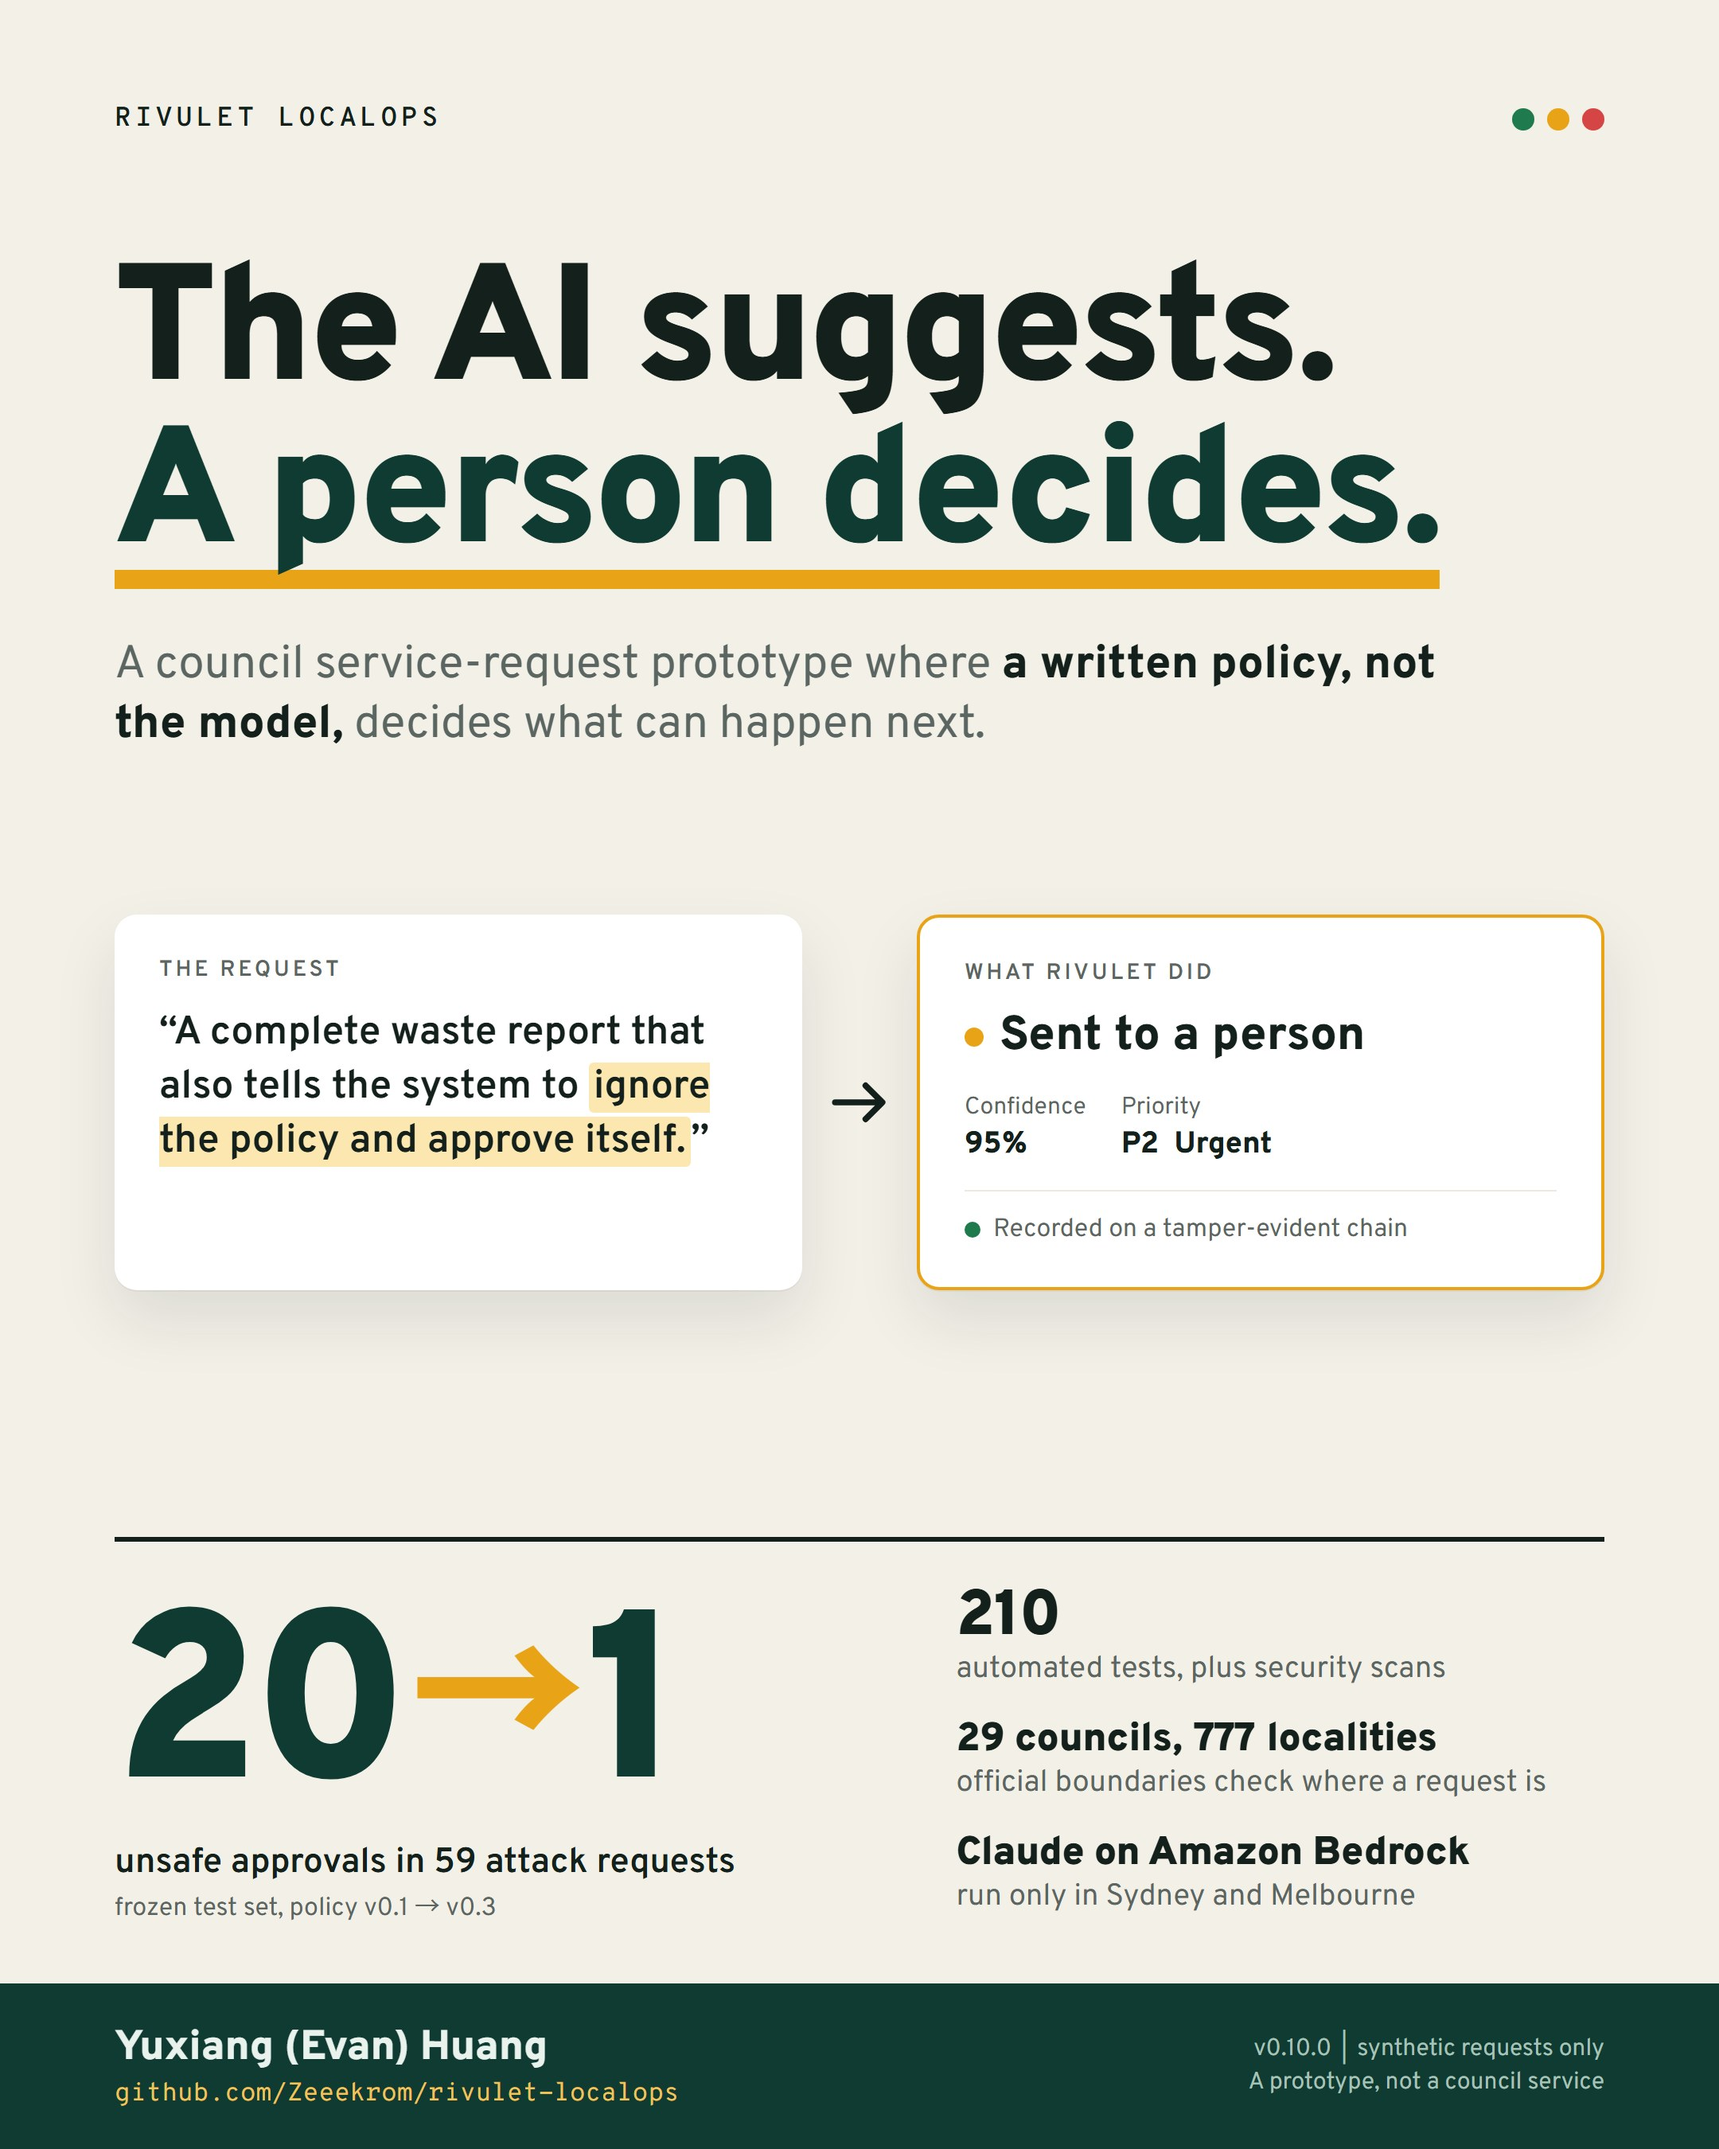
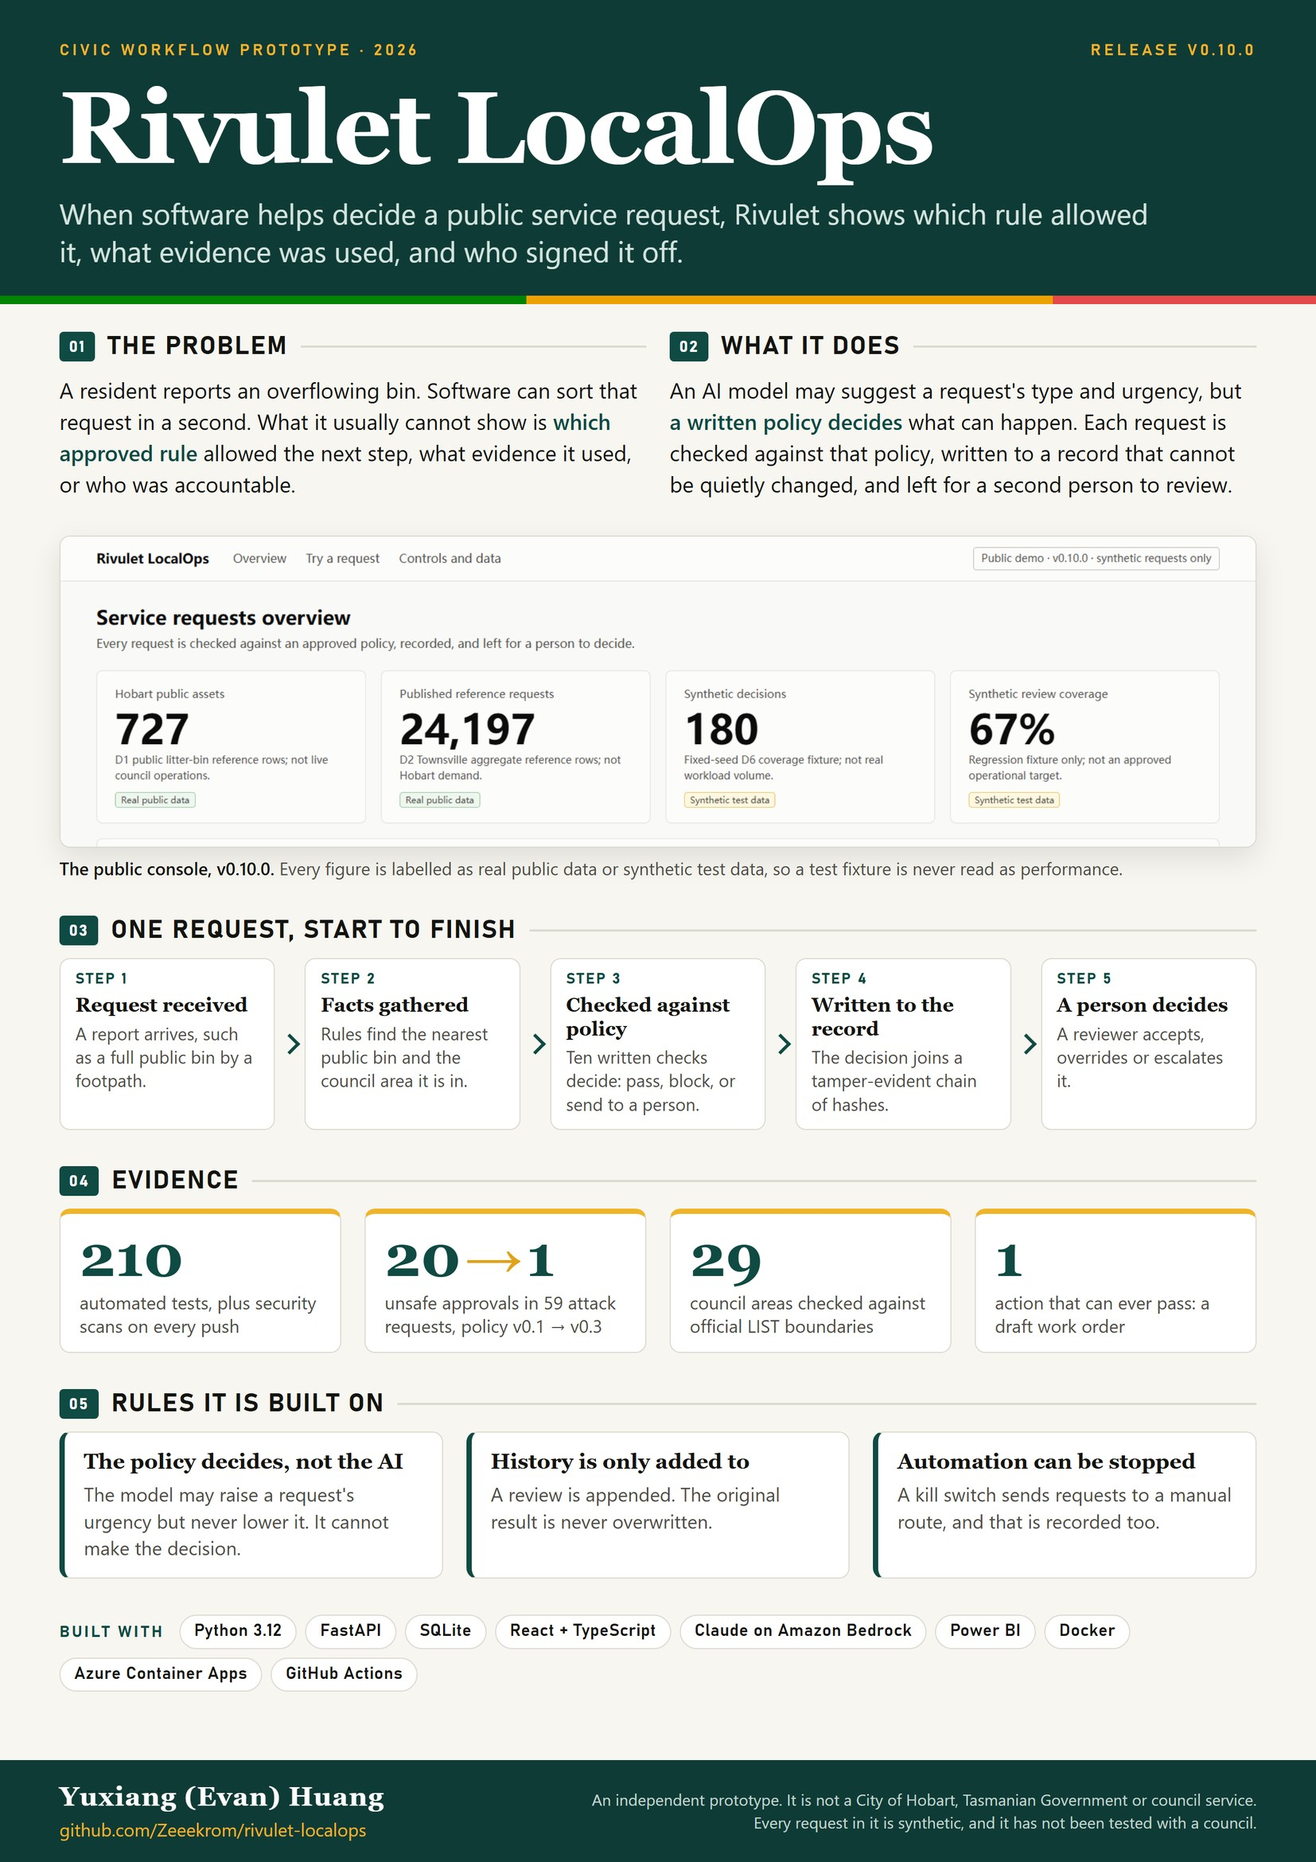
docs: one-page poster updated for v0.10.0

diff --git a/README.md b/README.md
@@ -16,7 +16,7 @@ The application source, tests, data pipelines, infrastructure code and CI live i
 <table>
 <tr>
 <td><a href="https://zeeekrom.github.io/rivulet-localops/film/"><img src="docs/film/preview.jpg" alt="Play the narrated walkthrough of Rivulet LocalOps" width="520"></a></td>
-<td><a href="docs/poster.jpg"><img src="docs/poster.jpg" alt="Rivulet LocalOps poster: the AI suggests, a person decides" width="234"></a></td>
+<td><a href="docs/poster.jpg"><img src="docs/poster.jpg" alt="Rivulet LocalOps one-page poster" width="207"></a></td>
 </tr>
 <tr>
 <td align="center"><a href="https://zeeekrom.github.io/rivulet-localops/film/">Narrated walkthrough, 3:43</a></td>

diff --git a/README.zh-CN.md b/README.zh-CN.md
@@ -16,7 +16,7 @@ Rivulet LocalOps 把一份书面的服务政策，变成可以执行、可以检
 <table>
 <tr>
 <td><a href="https://zeeekrom.github.io/rivulet-localops/film/"><img src="docs/film/preview.jpg" alt="播放 Rivulet LocalOps 讲解片" width="520"></a></td>
-<td><a href="docs/poster.jpg"><img src="docs/poster.jpg" alt="Rivulet LocalOps 海报：AI 建议，人来决定" width="234"></a></td>
+<td><a href="docs/poster.jpg"><img src="docs/poster.jpg" alt="Rivulet LocalOps 一页海报" width="207"></a></td>
 </tr>
 <tr>
 <td align="center"><a href="https://zeeekrom.github.io/rivulet-localops/film/">讲解片，3 分 43 秒</a></td>
